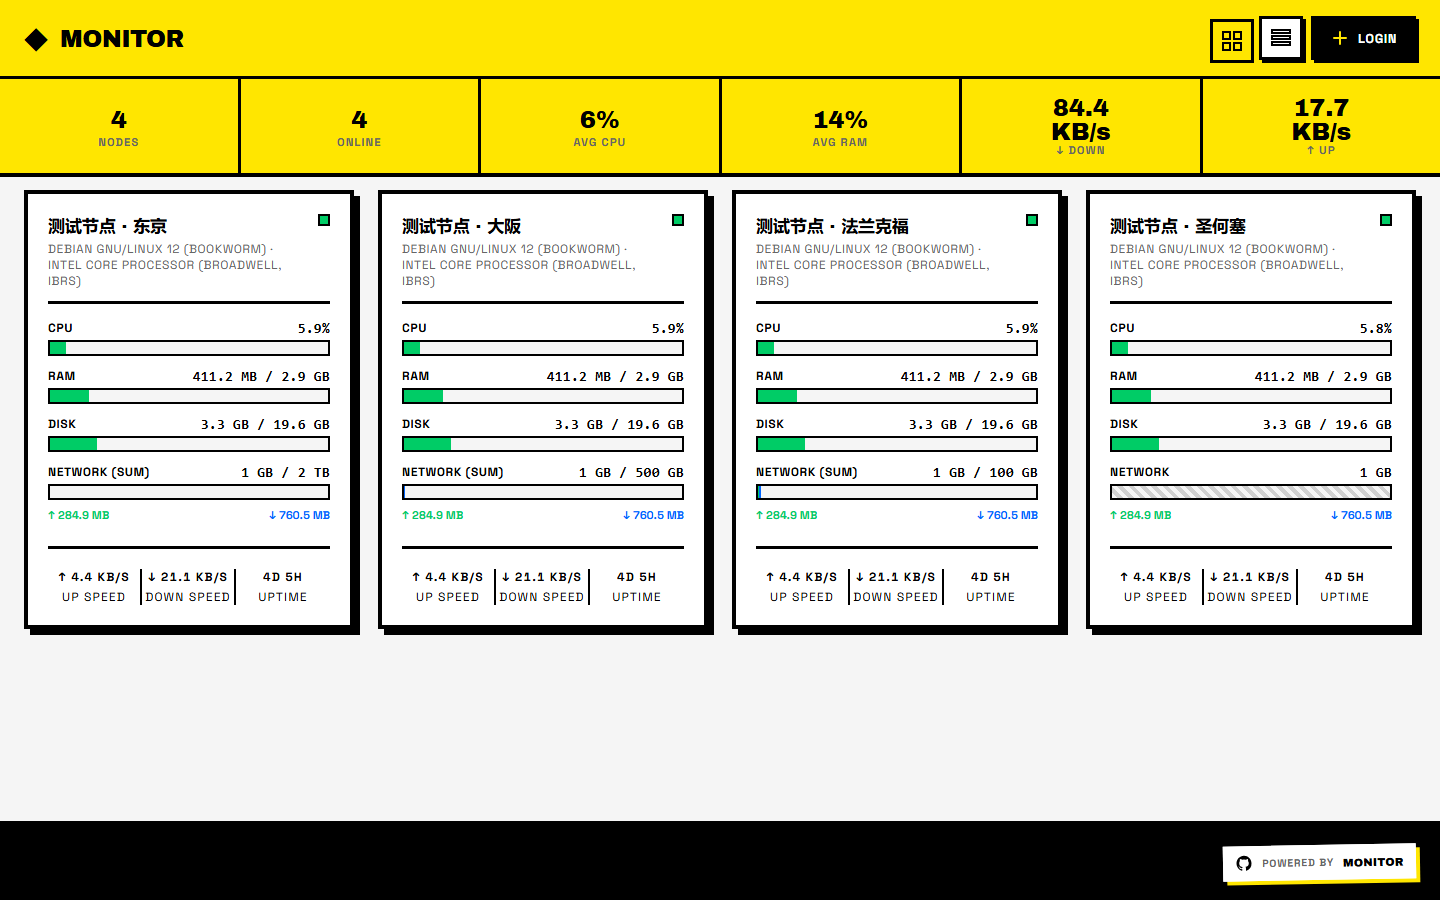
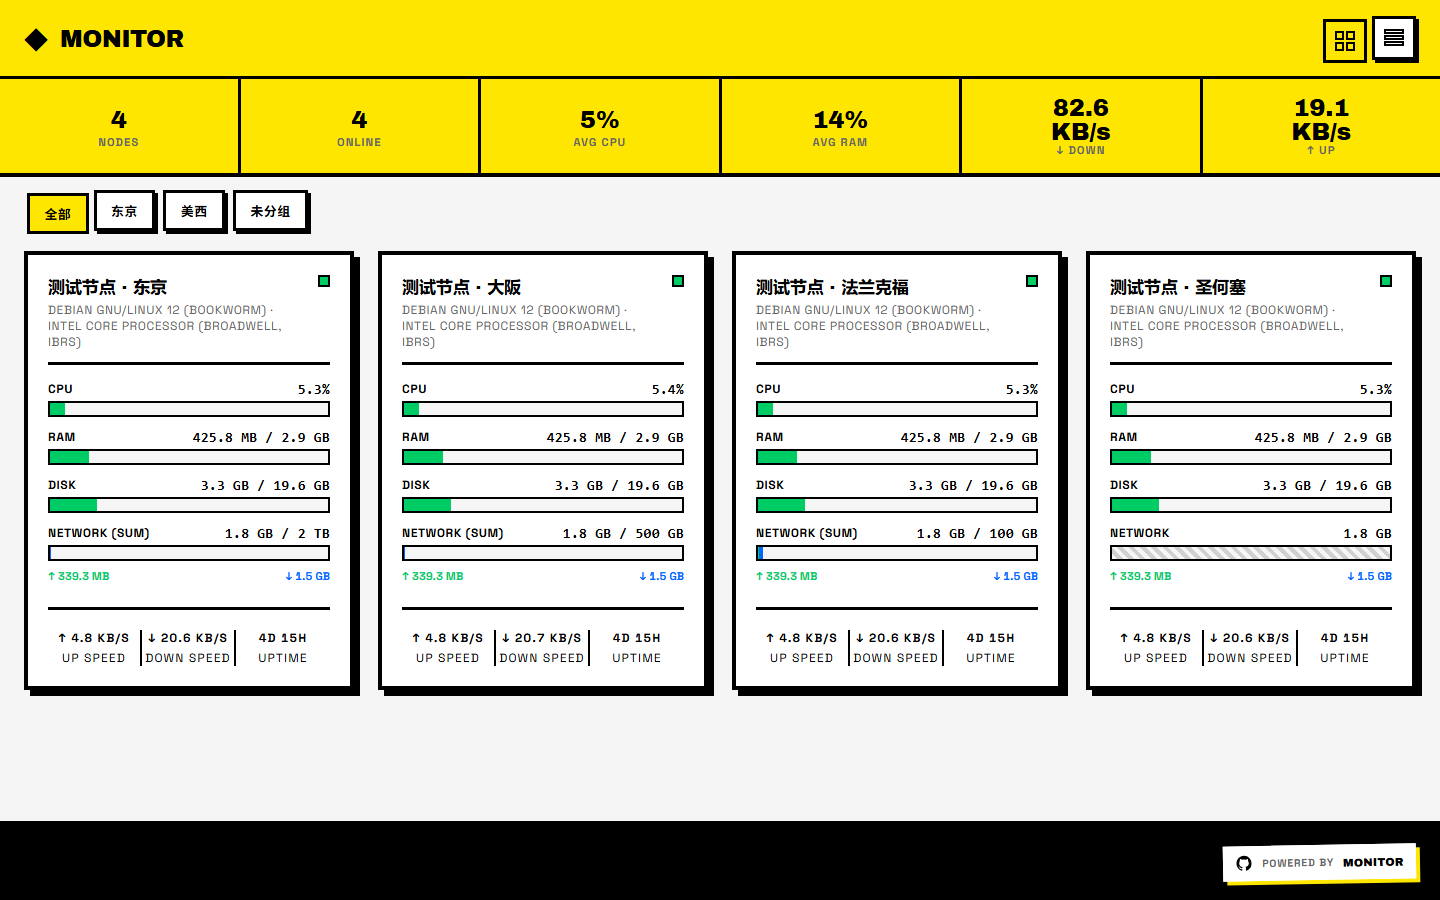
1.1.0：新增分组（Hub 的 group 字段）——列表按分组分段，卡片视图可配置
- 只要后台给节点设过分组，首页出现分组标签（全部/组名/未分组），点一下只看该组；
  一个分组都没有时整块收起，不留空位。
- 列表视图固定按分组分段（标题带 + 组内节点数）；卡片视图由站点设置
  cardGroupView 决定：tabs（默认，只有顶栏标签）/ sections（标签 + 分段标题）。
- 筛选值三态：null=全部、''=未分组、其它=组名；按钮用下标做键，避免与分组名撞车。
- 分组被改名/解散后筛选回落「全部」（与 Hub 面板 useGroupFilter 同款判定）；
  筛到单个分组时不再重复同名标题；未分组排最后。
- 轮询原本只原地改数字（不建卡、不重建标签行），故新增「分组归属指纹」：
  分组归属变了才 render()，否则访客页面会停在改名前的样子。
- theme.json 增加「分组」设置组与 cardGroupView；check-defaults.mjs 的 optionChecks
  同步登记该选项（不登记则 options 写错也能过）。
- adapt.css 补 .group-tabs/.group-tab/.group-heading 与 #group-tabs[hidden] 规则
  （开关一律写 elements.groupTabs.hidden，check-adapt.mjs 才能扫到；已自测护栏会报错）。
- README 增加分组说明与「与原版的差异」；preview.png 按默认外观（只有标签）重拍。

diff --git a/src/script.js b/src/script.js
@@ -4,7 +4,10 @@
  *   1. 数据来源改走 window.Monitor1999（见 src/monitor.js）：rpcCall / 站点信息 / 历史记录；
  *   2. 移除登录弹窗与 OAuth（极简探针的登录在 /admin），顶栏按钮统一跳转后台；
  *   3. 移除极简探针不上报的能力：GPU 型号、连接数与进程数的历史曲线，
- *      以及匿名访客拿不到的 30 天窗口按钮。
+ *      以及匿名访客拿不到的 30 天窗口按钮；
+ *   4. 新增分组（原版没有用到 Komari 的 group 字段）：极简探针的节点带一个公开的
+ *      group 字段（后台可批量设置、最长 13 字、留空为未分组），这里据此加上
+ *      分组筛选标签与列表分段标题，见 renderGroupTabs / createGroupHeading。
  */
 (function() {
   'use strict';
@@ -13,6 +16,12 @@
     nodes: new Map(),
     // 移植差异：访客的视图偏好改用自己的键，避免与其它主题/原主题串味
     viewMode: localStorage.getItem('monitor1999ViewMode') || 'grid',
+    // 新增：分组筛选值（null = 全部，'' = 未分组，其它字符串 = 该分组名）。
+    // 不落 localStorage：访客下次打开仍从「全部」开始，免得看到一半节点以为站点坏了。
+    groupFilter: null,
+    groupTabKeys: [],
+    // 上一次渲染时的分组归属指纹（见 groupSignature / fetchNodesAndStatus）
+    groupSignature: '',
     settings: {},
     pollTimer: null,
     pollInterval: 3000,
@@ -39,7 +48,9 @@
     modal: document.getElementById('node-modal'),
     modalContent: document.getElementById('modal-content'),
     modalClose: document.getElementById('modal-close'),
-    adminButton: document.querySelector('.btn-admin')
+    adminButton: document.querySelector('.btn-admin'),
+    // 新增：分组筛选标签行（在 main 内、节点容器之上）
+    groupTabs: document.getElementById('group-tabs')
   };
 
   const PING_COLORS = ['#FF3333', '#00A896', '#9B5DE5', '#0066FF', '#F59E0B', '#EC4899', '#10B981', '#F97316'];
@@ -410,6 +421,11 @@
       if (state.isInitialRender) {
         render();
         state.isInitialRender = false;
+      } else if (groupSignature(Array.from(state.nodes.values()).sort((a, b) => a.weight - b.weight)) !== state.groupSignature) {
+        // 新增：分组归属变了（分组被改名/增删，或节点换了分组）就重绘一次。
+        // 轮询本身只调 updateAllCards()——它按 data-uuid 改数字，不会建卡也不会动
+        // 标签行与分段标题，于是站长改名后访客页面会一直停在上一次渲染的样子。
+        render();
       } else {
         updateAllCards();
       }
@@ -797,8 +813,97 @@
     if (upSpan) scrambleTextIfChanged(upSpan, isOnline ? formatUptime(node.uptime) : '-');
   }
 
+  // --- 新增：分组（Hub 的 group 字段）-----------------------------------------
+  // Hub 把分组定位成「标签页或分段标题」（见 monitor 的 api.rs: MAX_GROUP 注释），
+  // 这里两样都做：顶栏的标签负责筛选，节点列表里按分组加分段标题。
+  // 分组名是操作者在后台设的（最长 13 字、可含中文），公开页可见；空字符串是未分组。
+
+  // 筛选值：null = 全部，'' = 未分组，其它字符串 = 该分组名
+  function groupKeyOf(node) {
+    return (node.group || '').trim();
+  }
+
+  // 按传入顺序（调用方已按 weight 排好）收集分组名，未分组的只计数
+  function collectGroups(nodes) {
+    const names = [];
+    let ungrouped = 0;
+    nodes.forEach(node => {
+      const key = groupKeyOf(node);
+      if (!key) {
+        ungrouped++;
+        return;
+      }
+      if (!names.includes(key)) names.push(key);
+    });
+    return { names, ungrouped };
+  }
+
+  function createGroupHeading(title, count) {
+    const heading = document.createElement('div');
+    heading.className = 'group-heading';
+    heading.innerHTML = `
+      <span class="group-heading-name">${escapeHtml(title)}</span>
+      <span class="group-heading-count">${count}</span>
+    `;
+    return heading;
+  }
+
+  // 分组标签行。一个分组都没有（或节点全在未分组里）时整行收起，不留空位。
+  // 分组被改名/解散后落空的筛选回落到「全部」——与 Hub 面板里 useGroupFilter 的判定一致，
+  // 否则访客会停在一个什么都不显示的筛选上（面板那边同样选择回落而不是显示空列表）。
+  function renderGroupTabs(nodes) {
+    const tabs = elements.groupTabs;
+    if (!tabs) return;
+
+    const { names, ungrouped } = collectGroups(nodes);
+    const dangling = state.groupFilter !== null && state.groupFilter !== '' && !names.includes(state.groupFilter);
+    const emptyNone = state.groupFilter === '' && ungrouped === 0;
+    if (dangling || emptyNone) state.groupFilter = null;
+
+    if (names.length === 0) {
+      state.groupFilter = null;
+      state.groupTabKeys = [];
+      // 用 elements.groupTabs.hidden 这种写法（而不是局部别名）：check-adapt.mjs 靠
+      // 「elements.<键>.hidden =」扫出所有 hidden 开关，再核对 adapt.css 里有配套的
+      // [hidden] 规则；写成别名这一条就会漏检（自测时实测漏过）。
+      elements.groupTabs.hidden = true;
+      tabs.innerHTML = '';
+      return;
+    }
+
+    const entries = [{ key: null, label: '全部' }];
+    names.forEach(name => entries.push({ key: name, label: name }));
+    if (ungrouped > 0) entries.push({ key: '', label: '未分组' });
+
+    // 用下标当按钮的键：分组名最长 13 字，理论上可以是 "__all__" 这类字符串，
+    // 直接塞进 data-* 会和哨兵值撞车。
+    state.groupTabKeys = entries.map(entry => entry.key);
+    tabs.innerHTML = entries.map((entry, index) => {
+      const active = state.groupFilter === entry.key;
+      return `<button type="button" class="group-tab${active ? ' active' : ''}" data-group-index="${index}"${active ? ' aria-current="true"' : ''}>${escapeHtml(entry.label)}</button>`;
+    }).join('');
+    elements.groupTabs.hidden = false;
+
+    tabs.querySelectorAll('.group-tab').forEach(btn => {
+      btn.addEventListener('click', () => {
+        const key = state.groupTabKeys[Number(btn.dataset.groupIndex)];
+        if (key === undefined || key === state.groupFilter) return;
+        state.groupFilter = key;
+        render();
+      });
+    });
+  }
+
+  // 分组归属的指纹：轮询回来时用它判断要不要重绘（见 fetchNodesAndStatus）。
+  // 只含分组归属，不含指标数值——数值由 updateAllCards() 原地更新，不必重绘。
+  function groupSignature(nodes) {
+    return nodes.map(node => groupKeyOf(node)).join('\u0000');
+  }
+
   function render() {
     if (state.nodes.size === 0) {
+      renderGroupTabs([]);
+      state.groupSignature = '';
       elements.container.innerHTML = `
         <div class="empty-state">
           <h2>NO NODES</h2>
@@ -813,10 +918,41 @@
 
     const sortedNodes = Array.from(state.nodes.values()).sort((a, b) => a.weight - b.weight);
 
-    sortedNodes.forEach(node => {
-      const item = state.viewMode === 'list' ? createNodeListItem(node) : createNodeCard(node);
-      elements.container.appendChild(item);
-    });
+    // 新增：先把筛选值归一化（分组可能刚被改名/解散），再照它取要显示的节点
+    renderGroupTabs(sortedNodes);
+    state.groupSignature = groupSignature(sortedNodes);
+    const { names } = collectGroups(sortedNodes);
+    const filtered = state.groupFilter === null
+      ? sortedNodes
+      : sortedNodes.filter(node => groupKeyOf(node) === state.groupFilter);
+
+    const appendNode = (node) => {
+      elements.container.appendChild(
+        state.viewMode === 'list' ? createNodeListItem(node) : createNodeCard(node)
+      );
+    };
+
+    // 新增：有分组就按分组分段。列表视图固定分段；卡片视图由站点设置决定
+    // （cardGroupView：默认 'tabs' 只留顶栏标签，'sections' 才加分段标题）。
+    // 筛到某一个分组时标签已经写明了范围，不再重复一个标题。
+    const sections = names.length > 0
+      && state.groupFilter === null
+      && (state.viewMode === 'list' || state.settings.cardGroupView === 'sections');
+    if (sections) {
+      names.forEach(name => {
+        const members = filtered.filter(node => groupKeyOf(node) === name);
+        elements.container.appendChild(createGroupHeading(name, members.length));
+        members.forEach(appendNode);
+      });
+      // 未分组排在最后：它不是一个真的分组，放末尾不会把已分组的部分切开
+      const rest = filtered.filter(node => !groupKeyOf(node));
+      if (rest.length) {
+        elements.container.appendChild(createGroupHeading('未分组', rest.length));
+        rest.forEach(appendNode);
+      }
+    } else {
+      filtered.forEach(appendNode);
+    }
 
     // 移植差异：上游只在读到站点设置时调一次 applySettings()，而那时卡片还没渲染，
     // 于是「显示运行时间」开关在首次打开时根本不生效（实测关闭后四个卡片底部仍是 flex）。

diff --git a/src/adapt.css b/src/adapt.css
@@ -61,6 +61,91 @@ h1, h2, h3, h4, h5, h6,
 }
 
 /* --------------------------------------------------------------------------
+   新增：分组（Hub 节点的 group 字段）
+   上游没有分组概念，这一块是新加的样式：main 内的分组筛选标签行 + 节点列表里的分段标题
+   （script.js 的 renderGroupTabs / createGroupHeading）。视觉沿用上游的新粗野主义：
+   3px 黑边、硬阴影、激活态用强调色 + 按下位移，与顶栏的 .btn-view / .btn-admin 同款。
+   -------------------------------------------------------------------------- */
+.group-tabs {
+  display: flex;
+  flex-wrap: wrap;
+  gap: 0.5rem;
+  margin-bottom: 1.25rem;
+}
+
+/* 与 .btn-admin 同理：作者样式里的 display 会压过浏览器的 [hidden]，
+   没有这一条时「没有分组就把标签行收起来」会静默失效（标签行照旧占着位置）。
+   scripts/check-adapt.mjs 会核对这条规则存在。 */
+#group-tabs[hidden] {
+  display: none;
+}
+
+.group-tab {
+  font-family: 'Space Grotesk', sans-serif;
+  font-size: 0.8rem;
+  font-weight: 700;
+  text-transform: uppercase;
+  letter-spacing: 0.05em;
+  color: var(--black);
+  background: var(--card-bg);
+  border: 3px solid var(--black);
+  box-shadow: 3px 3px 0 var(--black);
+  padding: 0.5rem 0.9rem;
+  cursor: pointer;
+  transition: transform 0.1s ease, box-shadow 0.1s ease;
+}
+
+.group-tab:hover {
+  transform: translate(-2px, -2px);
+  box-shadow: 5px 5px 0 var(--black);
+}
+
+.group-tab.active {
+  transform: translate(3px, 3px);
+  box-shadow: none;
+  background: var(--accent);
+}
+
+/* 分段标题：网格视图里横跨整行（与 .empty-state 同款做法），列表视图在下面单独摆 */
+.group-heading {
+  grid-column: 1 / -1;
+  display: flex;
+  align-items: baseline;
+  gap: 0.6rem;
+  padding-bottom: 0.5rem;
+  border-bottom: 3px solid var(--black);
+}
+
+.group-heading-name {
+  font-family: 'Archivo Black', 'Monitor Display CJK', sans-serif;
+  font-size: 1rem;
+  text-transform: uppercase;
+  letter-spacing: -0.02em;
+  word-break: break-word;
+}
+
+.group-heading-count {
+  font-size: 0.85rem;
+  font-weight: 700;
+  color: var(--text-muted);
+}
+
+/* 列表视图：标题带跟着 .node-row 一起横向滚动（行本身 min-width: 820px，见上游注释），
+   所以给它同样的 min-width；线只画在标题上方，下面那条留给紧随其后的行边框，
+   否则会叠成 4px 的双线。 */
+.nodes-container.list-view .group-heading {
+  min-width: 820px;
+  padding: 0.7rem 0.85rem 0.55rem;
+  border-bottom: 0;
+  border-top: 2px solid var(--black);
+  background: var(--card-bg);
+}
+
+.nodes-container.list-view .group-heading:first-child {
+  border-top: 0;
+}
+
+/* --------------------------------------------------------------------------
    部件状态：JS 用 hidden 属性开关的元素
    script.js 关闭「显示后台入口按钮」（showLoginButton=false）时，是给按钮加
    hidden 属性。但浏览器默认的 [hidden] { display: none } 来自 UA 样式表，

diff --git a/src/monitor.js b/src/monitor.js
@@ -35,12 +35,16 @@
     showUptime: true,
     showLoginButton: true,
     dataUpdateInterval: 3,
-    defaultViewMode: 'grid'
+    defaultViewMode: 'grid',
+    // 卡片视图要不要分段标题：tabs = 只有顶栏分组标签（默认），sections = 标签 + 分段标题。
+    // 列表视图不受它影响，始终按分组分段。
+    cardGroupView: 'tabs'
   };
 
   var ACCENTS = ['yellow', 'red', 'blue', 'green', 'purple'];
   var CARD_STYLES = ['thick', 'thin', 'double'];
   var VIEW_MODES = ['grid', 'list'];
+  var CARD_GROUP_VIEWS = ['tabs', 'sections'];
 
   // Hub 的历史窗口上限（见 src/api.rs 的 PUBLIC_HOURS / ADMIN_HOURS）
   var MAX_HOURS_PUBLIC = 168;
@@ -177,6 +181,7 @@
             if (key === 'accentColor' && ACCENTS.indexOf(value) >= 0) merged[key] = value;
             else if (key === 'cardStyle' && CARD_STYLES.indexOf(value) >= 0) merged[key] = value;
             else if (key === 'defaultViewMode' && VIEW_MODES.indexOf(value) >= 0) merged[key] = value;
+            else if (key === 'cardGroupView' && CARD_GROUP_VIEWS.indexOf(value) >= 0) merged[key] = value;
             else if (key === 'dataUpdateInterval' && typeof value === 'number' && isFinite(value)) {
               merged[key] = Math.min(60, Math.max(1, Math.round(value)));
             } else if (key === 'showUptime' || key === 'showLoginButton') {

diff --git a/src/index.html b/src/index.html
@@ -73,6 +73,11 @@
   </header>
 
   <main class="main">
+    <!-- 新增：分组筛选标签（Hub 的节点 group 字段）。节点都没设分组时整行收起、不留空位，
+         标签本身由 script.js 的 renderGroupTabs() 生成。放在 main 内而不是页头里：
+         页头高度会被 JS 拿去算 main 的 padding-top，标签行会随分组数量换行，
+         塞进页头会让这块高度变得不可预测。 -->
+    <div class="group-tabs" id="group-tabs" role="group" aria-label="按分组筛选" hidden></div>
     <div class="nodes-container" id="nodes-container">
       <div class="loading" role="status" aria-label="Loading nodes">
         <div class="loading-panel">

diff --git a/README.md b/README.md
@@ -9,12 +9,20 @@
 
 - **新粗野主义视觉**：粗边框、硬阴影、像素化的加载动画，强调色可选（黄 / 红 / 蓝 / 绿 / 紫）。
 - **卡片 / 列表双视图**：访客的视图偏好记在本机，站点可在后台设置默认视图。
+- **分组**：Hub 后台给节点设了分组后，首页顶部出现分组标签（全部 / 组名 / 未分组），点一下只看该组。列表视图按分组分段显示；卡片视图在后台二选一——只保留顶栏标签（默认）或「标签 + 分段标题」。节点都没设分组时整块不出现。原版只把 Hub 的 `group` 字段读进状态、没有呈现，这一项是移植版新增的。
 - **节点卡片**：CPU、内存、磁盘、流量四条进度条，上行 / 下行速率与运行时间；流量条按 Hub 的计费周期口径与 `sum` / `max` / `up` / `down` 模式绘制，未设流量上限时画成斜纹。
 - **节点详情**：硬件 / 系统 / 存储 / 网络 四块信息（CPU 型号与核心数、架构、虚拟化、系统、内核、运行时间、最近上报、内存 / 交换 / 磁盘用量、双向速率与累计流量、TCP/UDP 连接数）。
 - **历史曲线**：CPU、内存、磁盘、网络四张图，窗口 1H / 6H / 24H / 3D / 7D（登录后的管理员多一个 30D）。
 - **延迟区块**：按探测线路列出最新延迟、丢包率、MIN / AVG / MAX / P50 / P99，并画出延迟曲线。
 - **小动效**：数字变化时的乱码翻牌、像素骨架；详情页支持 `Esc` 关闭与键盘操作。
 - **离线可用**：字体与 ECharts 都打进主题包，不依赖第三方 CDN。
+
+## 与原版的差异
+
+- **新增分组**（见上）：补上筛选标签，列表视图按分组分段，卡片视图的分段标题由站点设置 `cardGroupView` 决定（默认 `tabs` 只留标签）。访客的筛选只作用于本次浏览，不写本机存储、也不改站点设置。
+- 数据改由极简探针的 REST / WebSocket 提供，不需要 Komari 服务器；站点信息与主题配置读 `/api/me` 与 `/api/themes/1999/config`。
+- 移除原版有、极简探针不提供的部分：登录弹窗与 OAuth（登录在 `/admin`）、GPU 型号、进程数与连接数的历史曲线，以及匿名访客拿不到的 30 天历史窗口。
+- 字体与 ECharts 改为包内本地资源（原版走 Google Fonts / jsDelivr，中国大陆不可达）。
 
 ## 安装
 
